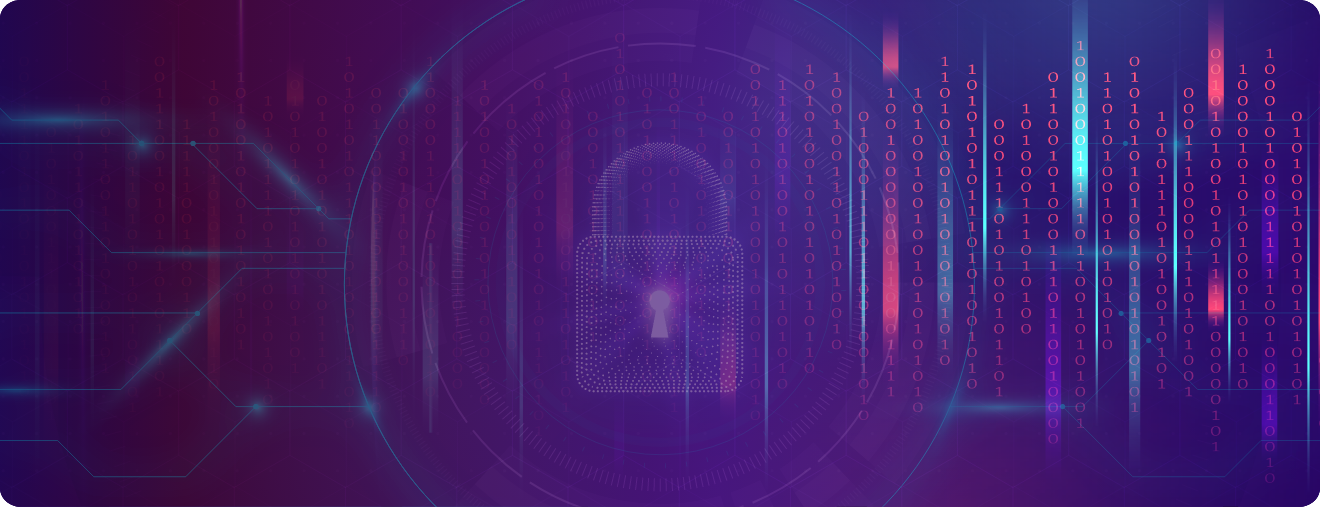
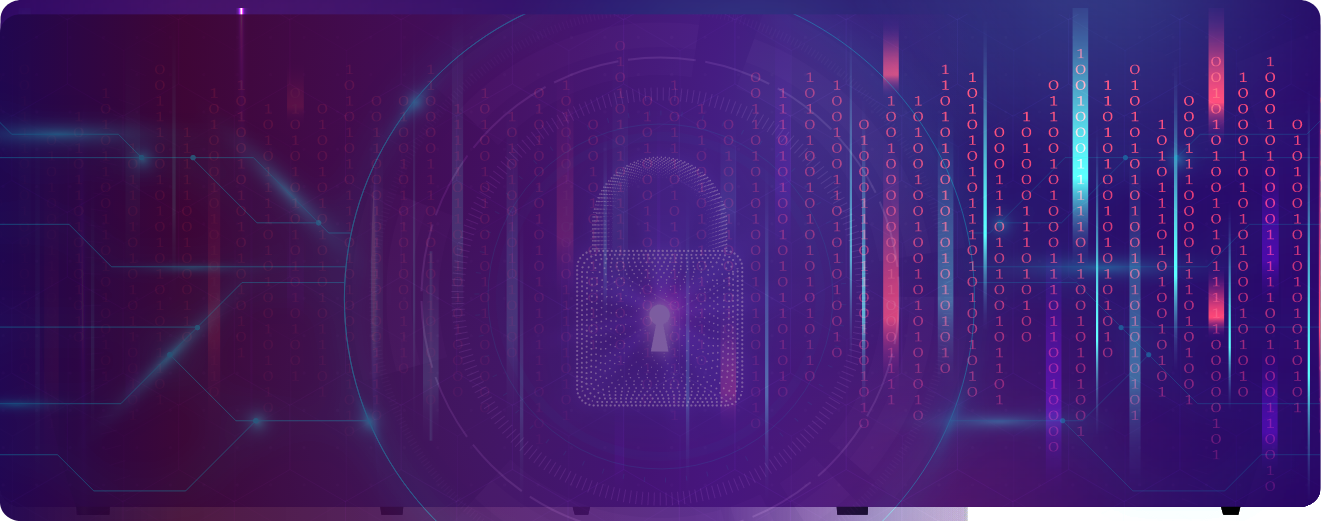
Ajustes

diff --git a/src/views/Tema4.vue b/src/views/Tema4.vue
@@ -99,51 +99,51 @@
           .col-lg-5(data-aos="fade-right")
             img(src='@/assets/curso/images/tema4/img_2.svg' alt='', style="width:500px; display:block; margin:auto 0;")
           .col-lg-5(data-aos="fade-left")
-            h3.mb-5 Aspectos Internos
-            LineaTiempoD
-              .p(titulo='Formato de la información' numero='1')
+            h3.my-5 Aspectos Internos
+            LineaTiempoD.color-secundario.especial
+              .row(titulo='Formato de la información' numero='1')
                 .row.align-items-center
                   .col-lg-12
                     p conocer los tipos de información que maneja y el porcentaje que tiene en cada una; por ejemplo, información impresa, digital, en medios magnéticos o en la nube. Este aspecto es importante para establecer los mecanismos de acceso y protección de estos activos.
-              .p(titulo='Cultura organizacional' numero='2')
+              .row(titulo='Cultura organizacional' numero='2')
                 .row.align-items-center
                   .col-lg-12
                     p Se puede establecer en el cómo trabajan las personas en la organización, lo cual también puede definir una ruta específica o maneras de realizar los procesos por parte de la organización.
 
-              .p(titulo='Nivel de madurez' numero='3')
+              .row(titulo='Nivel de madurez' numero='3')
                 .row.align-items-center
                   .col-lg-12
                     p Se refiere a si es una organización que apenas está empezando a implementar dentro de sus procesos controles de seguridad o si ya tiene unos procesos implementados y que desea actualizar los que actualmente tiene o implementar nuevos procesos.
 
-        .row.justify-content-evenly.align-items-center.mt-5.p-5
+        .row.justify-content-evenly.align-items-center.p-5
           .col-lg-5(data-aos="fade-left")
             h3.mb-5 Aspectos Externos
-            LineaTiempoD
-              .p(titulo='Autorización de cambios' numero='1')
+            LineaTiempoD.color-secundario.especial
+              .row(titulo='Autorización de cambios' numero='1')
                 .row.align-items-center
                   .col-lg-12
                     p Autorización de cambios: se establece si esta necesita de algún agente externo ante el cual la organización no tenga ningún control, es decir que dependa de terceros para poder implementar el modelo o estándar.
-              .p(titulo='Nivel económico' numero='2')
+              .row(titulo='Nivel económico' numero='2')
                 .row.align-items-center
                   .col-lg-12
                     p Que esta se encuentre por crecimientos en la economía o manejo de alguna moneda en particular, lo cual puede afectar en la implementación de procesos que vayan en contra de estos principios y/o procesos.
 
-              .p(titulo='Competencia' numero='3')
+              .row(titulo='Competencia' numero='3')
                 .row.align-items-center
                   .col-lg-12
                     p Cuáles son los rivales o mercados que pueden colocar en riesgo el funcionamiento de la organización, y adicional a ello qué tan competitivo es el mercado en el que esta se encuentra y qué cambios debe realizar periódicamente para mantenerse competitiva frente a la competencia.
 
-              .p(titulo='Manejo del medio ambiente' numero='4')
+              .row(titulo='Manejo del medio ambiente' numero='4')
                 .row.align-items-center
                   .col-lg-12
                     p En qué lugar se encuentra la infraestructura la cual pueda tener problemas como inundaciones, terremotos y/o cualquier desastre natural que pueda ocasionar riesgo en la continuidad del negocio, y qué mecanismos o planes de emergencia tiene establecidos para mitigar estos aspectos de seguridad.
 
-              .p(titulo='Ataques informáticos' numero='5')
+              .row(titulo='Ataques informáticos' numero='5')
                 .row.align-items-center
                   .col-lg-12
                     p Verificar la frecuencia o huecos de seguridad que puede tener la empresa y que pueden ocasionar que la información se coloque en riesgo bajo la gravedad de los ataques informáticos y qué se hace para minimizar estos comportamientos delictivos.
           .col-lg-5(data-aos="fade-right")
-            img(src='@/assets/curso/images/tema4/img_3.svg' alt='', style="width:500px; display:block; margin:auto 0;")
+            img.mt-5(src='@/assets/curso/images/tema4/img_3.svg' alt='', style="width:500px; display:block; margin:auto 0;")
          
     .row.align-items-evenly.justify-content-center.mb-5
       .col-lg-12

diff --git a/src/views/Tema5.vue b/src/views/Tema5.vue
@@ -7,7 +7,7 @@
         span 5
       h1 Análisis de riesgo y recuperación de desastres
   .container.bg-white.px-md-5.px-3.py-2.container-top.fondo-6.mb-0.cs
-    .row.align-items-center.justify-content-center.mb-5
+    .row.align-items-center.justify-content-center.mb-5.p-2
       .col-lg-12
         p.mb-3 Se denomina desastre a cualquier evento que sucede de manera repentina y que ocasiona que los procesos que realiza una organización se detengan por completo; esto implica toda actividad, sea de índole económica o social. En el caso específico de la seguridad de la información son sucesos que afectan el correcto funcionamiento hasta llegar a la interrupción de la disponibilidad de los servicios informáticos.
 
@@ -32,15 +32,15 @@
           figure
             img(src='@/assets/curso/images/tema5/img_1.svg' alt='', style="width:400px; display:block; margin:-1rem 0 ;")
 
-    .row.justify-content-center.align-items-center.mb-3
+    .row.justify-content-center.align-items-center.mb-3.p-2
       .col-lg-10(data-aos="fade")
         .cajon.color-custom-2.p-4.mb-3
           p.mb-3 Como en toda organización deben existir responsables de los procesos que se llevan a cabo. El caso de la recuperación de desastres no es la excepción a la regla, de hecho en este proceso no solo se debe establecer <b>el grupo de responsables</b>, quienes deben velar porque los planes de recuperación funcionen, sino que deben establecer un <b>comité específico para su vigilancia y supervisión</b>. Este comité está en la facultad de determinar la validez del plan de recuperación de desastres con base en la evaluación de incidentes presentados o que pueden llegar a presentarse. Adicional a ello, se establece la aprobación para la adquisición de recursos que pueden ser tecnológicos o humanos para velar por el cumplimiento y ejecución del plan de recuperación de desastres.
 
-    p.mb-3 Cada grupo tiene a su cargo la implementación del plan de recuperación de desastres de acuerdo con las responsabilidades establecidas y equivalentes a los tiempos de respuesta establecidos para el cumplimiento de los planes, tal como se expone en la siguiente figura 8:
+    p.mb-3.p-2 Cada grupo tiene a su cargo la implementación del plan de recuperación de desastres de acuerdo con las responsabilidades establecidas y equivalentes a los tiempos de respuesta establecidos para el cumplimiento de los planes, tal como se expone en la siguiente figura 8:
 
     .row.justify-content-center.p-5
-      .col-lg-10
+      .col-lg-8
         .titulo-sexto.color-acento-botones
           h5 Figura 7. 
           span Responsabilidades de los responsables
@@ -56,7 +56,7 @@
       .col-lg-6.mb-3(data-aos="fade-right")
         img(src='@/assets/curso/images/tema5/img_2.png' alt='', style="width:500px; display:block; margin:auto 0;")
       .col-lg-6(data-aos="fade-left")
-        LineaTiempoD
+        LineaTiempoD.color-secundario.especial
           .p(titulo='Disponibilidad' numero='1')
             .row.align-items-center
               .col-lg-12
@@ -93,7 +93,7 @@
 
     .row.justify-content-center.align-items-center.mt-5
       .col-lg-6.mb-3(data-aos="fade-left")
-        LineaTiempoD
+        LineaTiempoD.color-secundario.especial
           .p(titulo='Notificación de eventos' numero='5')
             .row.align-items-center
               .col-lg-12

diff --git a/src/views/Tema3.vue b/src/views/Tema3.vue
@@ -18,19 +18,19 @@
             span Conceptos de mecanismos de seguridad
       .row.justify-content-center.mb-5
         .col-lg-3.col-auto.mb-3.mb-lg-0
-          .tarjeta.tarjeta-up
+          .tarjeta-1.tarjeta-up
             img(src="@/assets/curso/images/tema3/tj_1.svg", alt= "")
             .tarjeta-up__content.bg-1
               h4 Activo físico:
               p Es todo aquel elemento tangible dentro de un espacio; es decir, todo aquello que se puede palpar; un ejemplo de ello, es una computadora, una mesa, una silla, entre otros.
         .col-lg-3.col-auto.mb-3.mb-lg-0
-          .tarjeta.tarjeta-up
+          .tarjeta-1.tarjeta-up
             img(src="@/assets/curso/images/tema3/tj_2.svg", alt= "")
             .tarjeta-up__content.bg-1
               h4 Seguridad física:
               p Busca garantizar la seguridad de los activos físicos, colocando barreras para su protección. Un ejemplo puede ser el guardia de seguridad, quien se encarga de verificar a las personas que ingresan a la organización.
         .col-lg-3.col-auto.mb-3.mb-lg-0
-          .tarjeta.tarjeta-up
+          .tarjeta-1.tarjeta-up
             img(src="@/assets/curso/images/tema3/tj_3.svg", alt= "")
             .tarjeta-up__content.bg-1
               h4 Otros:
@@ -161,7 +161,7 @@
 
             p.mb-0 Lo primero que se debe establecer es la responsabilidad de los usuarios en el uso de sus credenciales, las cuales son intransferibles. Por otro lado al momento de solicitar el cambio de contraseña, ya que este proceso se debe llevar a cabo con una periodicidad establecida, la cual puede variar de acuerdo a políticas, debe ser solicitado al personal de tecnología de la empresa o cumplir con algunos criterios mínimos, que se han expuesto anteriormente. 
 
-    p.mb3(data-aos="fade")  genérico de la importancia de establecer políticas de seguridad que garanticen el correcto funcionamiento de los elementos de tecnología de una organización.
+    p.mb3(data-aos="fade")  Lo anterior refleja el panorama genérico de la importancia de establecer políticas de seguridad que garanticen el correcto funcionamiento de los elementos de tecnología de una organización.
 
 
     .jumbotron.p-3(data-aos="fade")

diff --git a/src/styles/_custom.sass b/src/styles/_custom.sass
@@ -8,6 +8,9 @@
 .banner-principal__img img
   width: auto
   
+.color-custom
+  background-color: #DCDFEE !important
+  
 .color-custom-1
 	background-color: #A7B4FF 
 	&::before
@@ -112,7 +115,7 @@
       top: 20px
 
 .fondo-mobile
-  background-image: url('../assets/curso/images/tema2/back_2_1_2.svg')
+  background-image: url('../assets/curso/images/tema2/back_mobile_3.png')
   background-size: cover
   background-repeat: no-repeat
 
@@ -123,8 +126,13 @@
 .container-bottom
   border-radius: 0 0 20px 20px
 
-.tarjeta 
+.tarjeta-1
   border-radius: 0px
+
+.tarjeta-up .tarjeta-up__content.bg-1 
+  background-color: rgba(255, 255, 255, 0.9)
+  bottom: -70%
+
 
 .mg-top-1
   margin-top: -15px
@@ -152,9 +160,10 @@
   width: 450px
   margin-bottom: -70px !important
   @media (max-width: 992px)
-    width: 430px
-    margin-left: -120px
+    width: 370px
+    margin-left: -60px
     margin-bottom: -98px !important
+    font-size: 14px
 
 .tarjeta-blue-1
   background-color: #D0D7FF
@@ -180,6 +189,9 @@
   background-repeat: no-repeat
   background-size: cover
   background-color: #301850
+  @media (max-width: 992px)
+    width: 95%
+    margin-top: 10px  
   
   //filter: drop-shadow(2px 4px 6px grey)
   display: flex
@@ -342,3 +354,38 @@
 .tarjeta.color-acento-botones--borde
   border: none
   background-color: #DCDFEE
+
+.linea-tiempo-d.color-secundario.especial
+  .linea-tiempo-d__item--selected
+    .linea-tiempo-d__item__number
+      background-color: #DCDFEE
+      color: $color-sistema-texto
+    .linea-tiempo-d__item__content
+      background-color: #DCDFEE
+      color: #000
+
+.linea-tiempo-d__item__content__title:hover 
+  font-weight: 700
+  background-color: #DCDFEE
+
+.linea-tiempo-d__item--selected .linea-tiempo-d__item__number 
+  font-weight: 700
+  background-color: #DCDFEE
+
+.linea-tiempo-d__item__content__title 
+  display: flex
+  align-items: center
+  height: 63px
+  cursor: pointer
+
+.tarjeta-up .tarjeta-up__content 
+  position: absolute
+  bottom: -200%
+  width: 100%
+  height: 85%
+  padding: 2rem
+  transition: bottom 0.7s ease-in-out
+  @media (max-width: 992px)
+    height: 98%
+    bottom: -100%
+

diff --git a/src/config/global.js b/src/config/global.js
@@ -5,7 +5,7 @@ export default {
     descripcionCurso:
       'En este componente formativo se trabajarán las políticas para el manejo del riesgo y amenazas de seguridad, herramientas para la prevención y cuidado del uso del ciberespacio y el marco de trabajo de ciberseguridad NIST para la gestión de riesgos.',
     imagenBannerPrincipal: require('@/assets/curso/images/header/banner-principal.svg'),
-    fondoBannerPrincipal: require('@/assets/curso/images/header/fondo-banner-principal_5.png'),
+    fondoBannerPrincipal: require('@/assets/curso/images/header/1.png'),
     fondoBannerInterno: require('@/assets/curso/images/header/interno.svg'),
   },
   menuPrincipal: {
